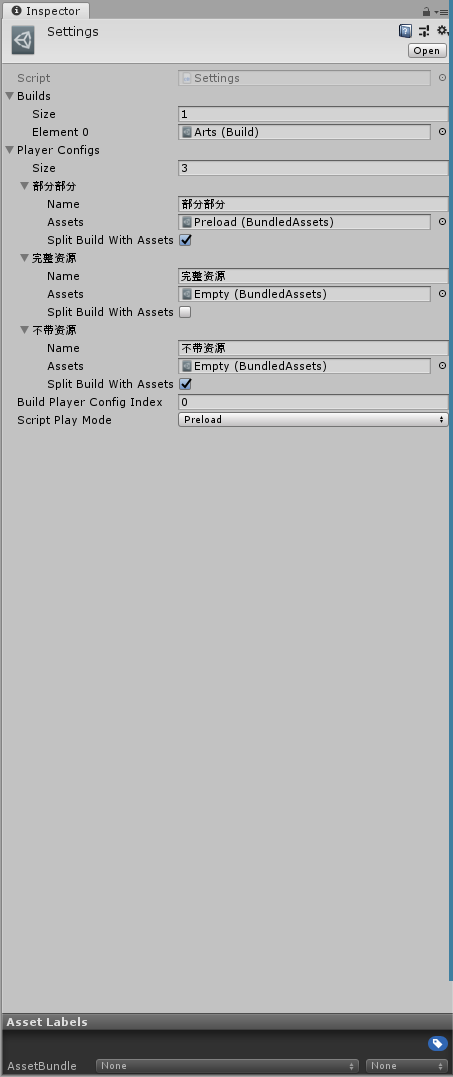
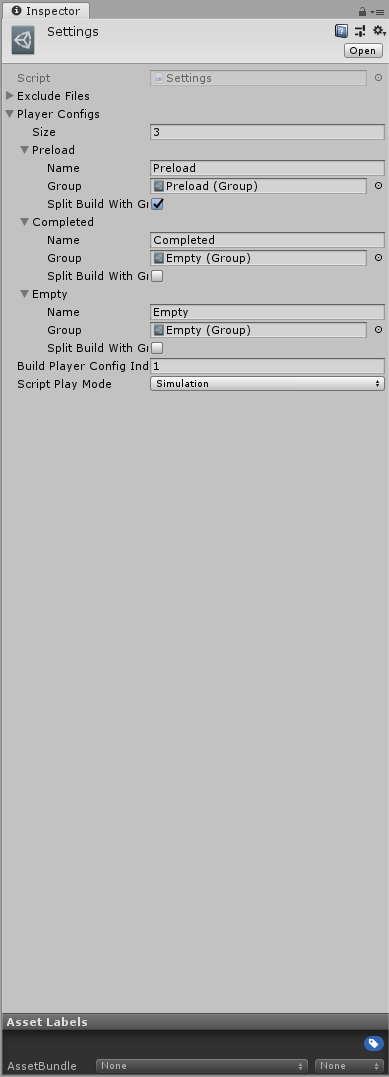
文档更新

diff --git a/update-versions.md b/update-versions.md
@@ -1,0 +1,50 @@
+<!-- docs/update-versions.md -->
+
+## 更新版本信息
+
+更新版本信息主要用来同步最新的清单文件。
+
+xasset-7.0 版本信息主要由以下两部分组成:
+
+- Manifest: 每个 Build 对应的清单文件（包含了每个 Build 中所有资源的版本信息）
+- ManifestVersion：每个清单文件对应的版本文件（内容小，只包含清单文件的版本信息）
+
+版本信息的更新流程是：
+
+1. 下载清单的版本文件
+2. 对比版本文件对应的清单是否已经下载
+    - 如果下载了，就不再下载清单，直接转到 3
+    - 如果没下载，就先下载清单，下载完成后再转到 3
+3. 按需进行清单文件的装载
+    - 对于安装包内部的清单，会先检查其对于的下载目录的清单是否存在，如果存在并且下载目录的清单版本 > 内部版本，直接加载下载目录的版本，否则加载内部版本
+    - 对于服务器的清单，仅当版本发生变化时会读取数据到内存，当用户确认更新后才会覆盖内部版本的清单文件
+
+以下是更新版本信息的示例代码：
+
+```c#
+var updateAsync = Versions.UpdateAsync("manifest1_hash", "manifest2_hash", "manifestx_hash");
+yield return updateAsync;
+if (updateAsync.status == OperationStatus.Failed)
+{
+    yield return MessageBox.Show("提示", "更新版本信息失败，请检测网络链接后重试。", ok =>
+    {
+        if (ok)
+            StartUpdate();
+        else
+            OnComplete();
+    }, "重试", "跳过");
+    yield break;
+}
+```
+
+需要注意的是，在没有调用以下接口前，服务器的清单只是下载到本地，而不会覆盖已有的版本文件：
+
+```c#
+updateAsync.Override();
+```
+
+如果需要高版本兼容低版本的支持，可以把 Override 的操作，可以放到获取更新大小之后，不需要的化可以在更新完成后直接调用，然后再执行以下代码：
+
+```c#
+updateAsync.Dispose();
+```

diff --git a/get-download-size.md b/get-download-size.md
@@ -1,0 +1,47 @@
+<!-- docs/get-download-size.md -->
+## 获取下载大小
+
+获取下载大小主要通过如下接口实现：
+
+- Versions.GetDownloadSizeAsync
+
+以下是调用该接口的代码示例：
+
+```c#
+var getDownloadSize = Versions.GetDownloadSizeAsync(updateAsync, group.assets);
+yield return getDownloadSize;
+if (getDownloadSize.totalSize > 0 || updateAsync.changed)
+{
+    var messageBox = MessageBox.Show("提示",
+        $"发现更新({Utility.FormatBytes(getDownloadSize.totalSize)})：服务器版本号 {updateAsync.version}，本地版本号 {Versions.ManifestsVersion}，是否更新？",
+        null, "更新", "跳过");
+    yield return messageBox;
+    if (messageBox.ok)
+    {
+        updateAsync.Override();
+        StartDownload(getDownloadSize);
+        yield break;
+    }
+}
+```
+
+updateAsync 是之前更新版本信息时返回的对象，这表示直接使用服务器的版本信息进行检查，如果只想针对本地的版本信息进行检查可以使用这个版本：
+
+```c#
+var getDownloadSize = Versions.GetDownloadSizeAsync(group.assets);
+yield return getDownloadSize;
+if (getDownloadSize.totalSize > 0)
+{
+    var messageBox = MessageBox.Show("提示",
+        $"发现更新({Utility.FormatBytes(getDownloadSize.totalSize)})：服务器版本号 {updateAsync.version}，本地版本号 {Versions.ManifestsVersion}，是否更新？",
+        null, "更新", "跳过");
+    yield return messageBox;
+    if (messageBox.ok)
+    {
+        StartDownload(getDownloadSize);
+        yield break;
+    }
+}
+```
+
+通常，只有第一次进行版本更新才传入更新版本信息时返回的对象，后续的内容都可以使用本地的版本信息进行检查。需要注意的是 group.assets 是一组资源列表，为什么不使用 group 的名字而是使用列表呢？这主要是游戏的内容会随着时间轴的变化而变化，预先制作的东西具有一定时效性，传入一个动态列表更灵活。

diff --git a/splitbuild.md b/splitbuild.md
@@ -1,0 +1,31 @@
+<!-- docs/splitbuild.md -->
+## 分包打包
+
+分包，是一种把游戏内容按需进行切割的技术。
+
+不论是为了让用户更快的体验程序功能，还是减少运营成本，对项目而言，分包技术将成为不可或缺的技术。
+
+xasset-7.0 的分包技术，主要达成了：
+
+- 最小化安装包大小，可以让 App 不带资源启动，示例的 Apk 不超过 30 MB。
+- 自动管理依赖，只需配置加载路径，打包安装包的时候，打包系统会自动按需把相关资源和其依赖的资源复制到 StreamingAssets。
+
+使用 xasset-7.0 进行分包打包的主要流程是：
+
+1. 在 Settings 中创建 PlayerConfigs；
+
+2. 在 打包安装包前修改 Settings 的 BuildPlayerConfigIndex 属性，指定要使用的分包配置；
+
+3. 通过 批处理、文件菜单、Assets 菜单等任意方式，进行安装包打包。
+
+以下是示例中的配置：
+
+![example-settings](res/example-settings.png)
+
+上图中，主要包含了三份预定义的分包配置：
+
+- Preload：表示安装包只包含 Preload 分组的资源
+- Completed：表示安装包包含所有内容
+- Empty：表示安装包不含内容
+
+注：对于团队用户，xasset-7.0 以及对 Android App Bundle 进行了完美适配，有需要的团队用户可以在对应的技术支持群发起对接需求。

diff --git a/buildevent.md b/buildevent.md
@@ -1,0 +1,48 @@
+<!-- docs/buildevent.md -->
+## 打包事件
+
+打包事件主要包括：
+
+- BuildScript.postprocessBuildBundles：打包后触发的事件。
+- BuildScript.preprocessBuildBundles：打包前触发的事件。
+
+以下是通过打包事件获取当前 Build 中，新增文件的示例代码：
+
+```c#
+[InitializeOnLoad]
+public static class ExampleBuildProcessor
+{
+    static ExampleBuildProcessor()
+    {
+        BuildScript.postprocessBuildBundles += PostprocessBuildBundles;
+        BuildScript.preprocessBuildBundles += PreprocessBuildBundles;
+    }
+
+    private static void PreprocessBuildBundles(Build build)
+    {
+        Debug.LogFormat("PreprocessBuildBundles {0}", build.name);
+    }
+
+    private static void PostprocessBuildBundles(Record record)
+    {
+        Debug.LogFormat("PostprocessBuildBundles {0}", record?.build);
+
+        if (record == null)
+        {
+            return;
+        }
+        
+        // 本次 Build 中新增的文件
+        foreach (var file in record.files)
+        {
+            Debug.Log(file);
+        }
+    }
+}
+```
+
+打包完成后，默认会将打包的所有文件输出到当前平台的 Bundles 目录下，如下图：
+
+![build-path](res/build-path.png)
+
+每次打包后需要上传到服务器的文件都记录到了后处理的 Record 中。

diff --git a/atlaspack.md b/atlaspack.md
@@ -5,10 +5,9 @@
 
 ## 为什么使用 SpriteAtlas？
 
-对比旧的设置 tag 的方式打图集，SpriteAtlas 是一种分布式的设计，可以更方便的预览单个图集的内容。
+对比旧的设置 tag 的方式打图集，SpriteAtlas 是一种分布式的设计，可以更方便的预览单个图集的内容。对比第三方的图集制作方案，SpriteAtlas 是一种后处理的图集构建方案，使用时无需关注资源在哪个图集。
 
-对比第三方的图集制作方案，SpriteAtlas 是一种后处理的图集构建方案，使用时无需关注资源在哪个图集。
-
-## 核心规则
+## 注意事项
 
 - 一个 AssetBundle 可以包含多个图集，但是同一个图集的内容必须要打包到统一个 AssetBundle。
+- ETC2 格式的 1024 大小的贴图和 2048 大小的贴图基于 Chunk 压缩打包 AssetBundle 加载的 IO 耗时大约都是 100 MS，如果规划打包粒度，可以结合这些参数去选项。

diff --git a/_sidebar.md b/_sidebar.md
@@ -5,20 +5,20 @@
   * [工程结构](/structure "工程结构")
 
 * 打包
-  * [基本介绍](/build "基本介绍")
+  * [打包流程](/build "打包流程")
   * [编辑器工具](/memuitems "编辑器工具")
   * [分组策略](/groups "分组策略")
   * [图集打包](/atlaspack "图集打包")
-  * 分包打包
-  * 后处理
+  * [分包打包](/splitbuild "分包打包")
+  * [打包事件](/buildevent "打包事件")
 
 * 版本更新
-  * 初始化
-  * 更新版本信息
-  * 批量下载内容
-  * 获取下载大小
-  * 解压二进制
-  * 离线模式
+  * [初始化](/initialize "初始化")
+  * [更新版本信息](/update-versions "更新版本信息")
+  * [获取下载大小](/get-download-size "获取更新大小")
+  * [批量下载内容](/download-versions "下载更新内容")
+  * [解压二进制](/unpack-binary "解压二进制")
+  * [离线模式](/offline-mode "离线模式")
 
 * 开发模式
   * 仿真模式

diff --git a/initialize.md b/initialize.md
@@ -1,0 +1,18 @@
+<!-- docs/initialize.md -->
+## 初始化
+
+初始化主要完成平台路径的设置以及母包的清单文件的加载，以下是初始化的示例代码：
+
+```c#
+var operation = Versions.InitializeAsync();
+yield return operation;
+Logger.I("Initialize: {0}", operation.status);
+Versions.DownloadURL = downloadURL;
+Logger.I("API Version: {0}", Versions.APIVersion);
+Logger.I("Manifests Version: {0}", Versions.ManifestsVersion);
+Logger.I("PlayerDataPath: {0}", Versions.PlayerDataPath);
+Logger.I("DownloadDataPath: {0}", Versions.DownloadDataPath);
+Logger.I("DownloadURL: {0}", Versions.DownloadURL);
+```
+
+注：在使用其他运行时API前，请先确保系统以及正常初始化了。

diff --git a/build.md b/build.md
@@ -1,6 +1,6 @@
 <!-- docs/build.md -->
 
-## 打包的基本介绍
+## 打包流程
 
 打包主要包含两个部分：
 
